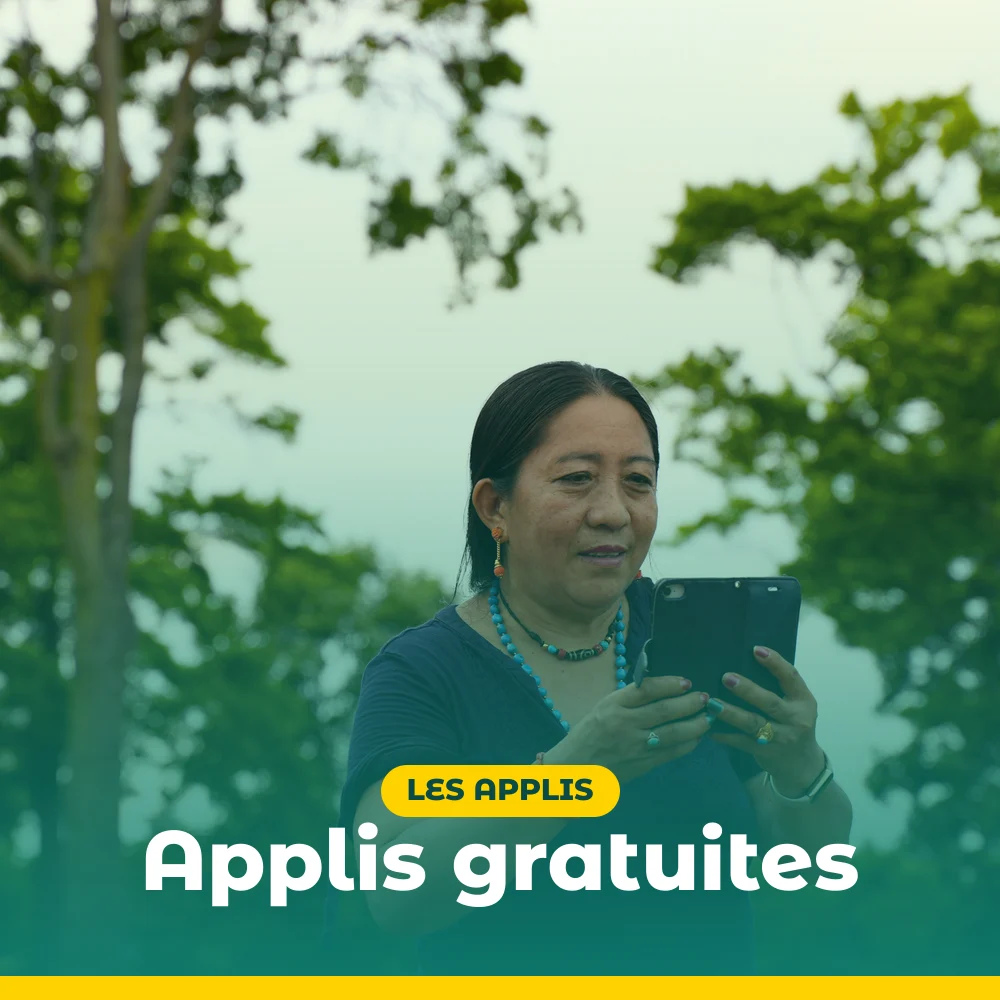
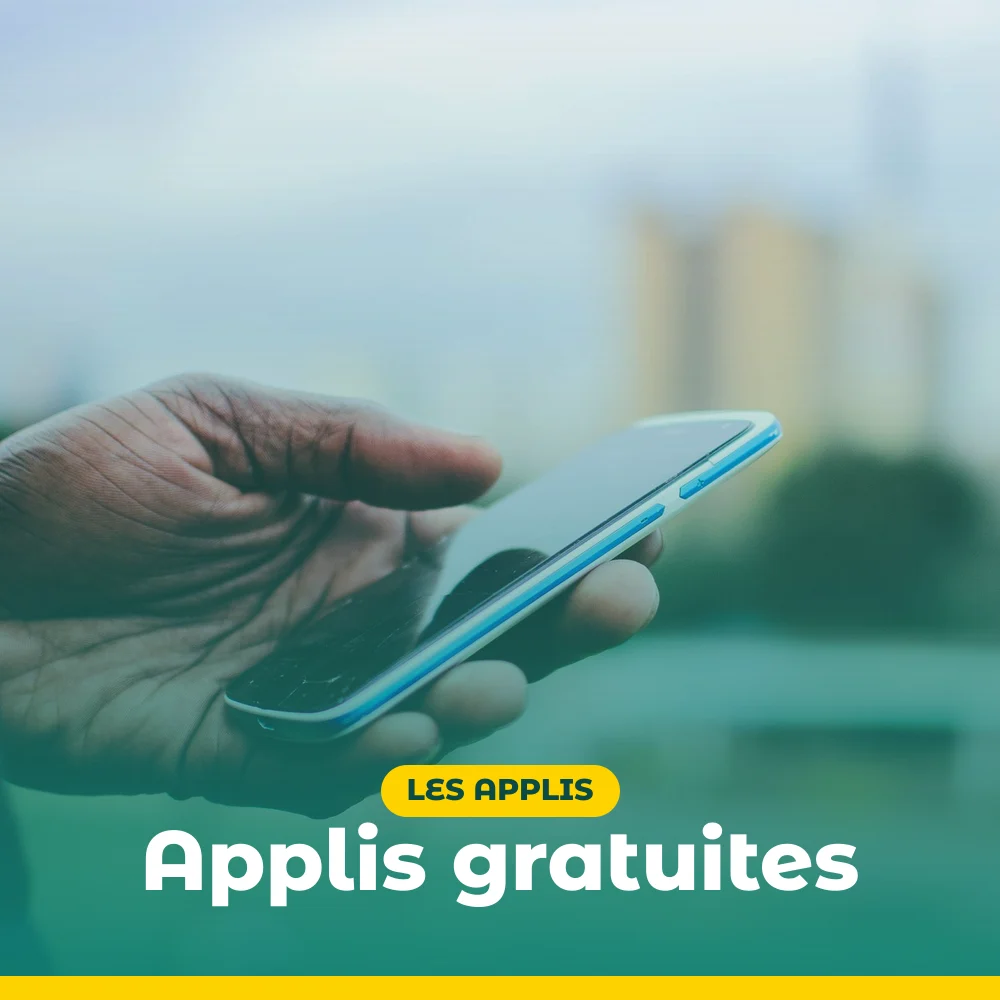
images: requetes photo centrees sur une PERSONNE + action de la section (fini les rendus 3D d'objets); article regenere en vraies photos coherentes

diff --git a/src/pages/api/generate.ts b/src/pages/api/generate.ts
@@ -41,9 +41,13 @@ STRUCTURE :
 Pour CHAQUE section, tu fournis aussi de quoi fabriquer sa carte-image :
 - "kicker" : un libellé TRÈS COURT EN MAJUSCULES (1 à 2 mots, il s'affiche dans une petite pastille). Si l'article est une liste d'étapes/astuces, mets "ÉTAPE 1", "ÉTAPE 2"… dans l'ordre. Sinon un libellé thématique court (ex : "LE PRINCIPE", "À RETENIR", "L'ERREUR", "LES APPLIS").
 - "cardTitle" : un titre TRÈS court (2 à 4 mots) qui résume la section (ex : "Créer une routine").
-- "imageQuery" : mots-clés EN ANGLAIS pour une PHOTO pertinente. RÈGLE : décris une SCÈNE CONCRÈTE ET PHOTOGRAPHIABLE (une personne, un objet, un lieu réel), JAMAIS un concept abstrait. Privilégie des personnes noires / un contexte africain quand c'est logique. Bon : "african woman checking smartphone". Mauvais : "justice", "success", "freedom" (renvoient des photos au hasard, souvent hors charte). 3 à 5 mots.
+- "imageQuery" : mots-clés EN ANGLAIS pour une VRAIE PHOTO (jamais un rendu 3D ni une illustration). RÈGLES :
+  1) mets TOUJOURS une PERSONNE en train de faire l'action PRÉCISE de CETTE section (un objet seul comme "smartphone", "sim card", "money" renvoie des rendus 3D moches et hors sujet) ;
+  2) sois SPÉCIFIQUE au contenu de la section, pas générique (chaque section doit avoir une image différente et parlante) ;
+  3) personnes noires / contexte africain quand c'est logique.
+  Ex. section "applis anti-spam" -> "african woman checking app on phone". Ex. section "recours juridique" -> "worried woman talking to lawyer". À ÉVITER absolument : "smartphone", "sim card", "justice", "success". 4 à 6 mots.
 
-En plus, fournis "coverQuery" : les mots-clés EN ANGLAIS (scène concrète, mêmes règles) pour la PHOTO DE COUVERTURE, la plus représentative du sujet global de l'article.
+En plus, fournis "coverQuery" : mots-clés EN ANGLAIS pour la PHOTO DE COUVERTURE (une personne, scène concrète et lumineuse, la plus représentative du sujet global). Mêmes règles.
 
 RUBRIQUE : choisis EXACTEMENT une valeur parmi : ${CATEGORIES.map((c) => `"${c}"`).join(', ')}.
 
